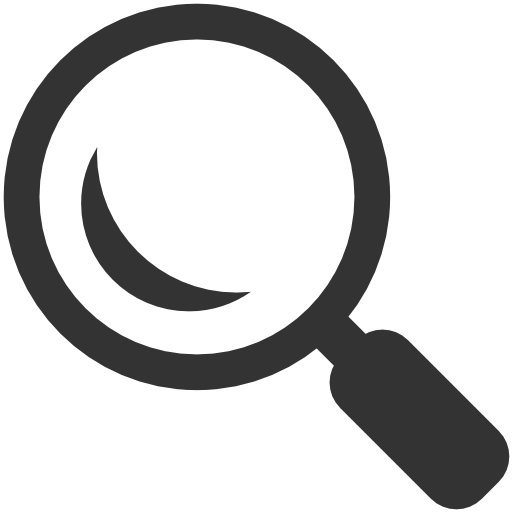
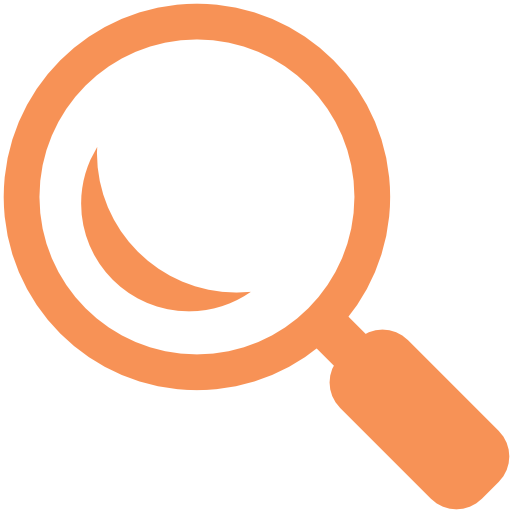
further styling of views, added user search functionality

Changed region(s): [[0.0, 0.0, 1.0, 1.0], [0.1562, 0.2812, 0.5, 0.625]]

diff --git a/app/assets/stylesheets/application.css b/app/assets/stylesheets/application.css
@@ -17,9 +17,12 @@ body {
 }
 #footer {
 	clear: both;
-	height: 100px;
+	height: 75px;
 	width: 0 auto;
-	background-color: #000000;
+	background-color: #454243;
+	color: #f79256;
+	text-align: center;
+	padding-top: 25px;
 }
 #logo {
 	float: left;
@@ -32,18 +35,21 @@ li {
 	text-transform: uppercase;
 	margin: 5px;
 	margin-top: 60px;
+	font-size: 14px;
 }
 #sign_up_form {
 	width: 35%;
 	background-color: #e8e3d9;
 	float: left;
 	padding: 10px;
+	margin-bottom: 20px;
 }
 .form_list {
 	text-align: right;
 }
 #big_dogs {
 	float: right;
+	margin-right: 30px;
 }
 .form {
 	float: inline-block;
@@ -63,5 +69,111 @@ a:link, a:visited {
 	text-decoration: none;
 }
 a:hover {
-	color: #e8e3d9;
+	color: #ffffff;
+}
+.button input {
+	margin: 2px 4px 0px 0px;
+	border: 2px solid #8a8587;
+	background-color: #c2dde5;
+	font-size: 12px;
+}
+#check_out_users {
+	padding-top: 10px;
+}
+#profile_photo {
+	margin: 20px;
+	float: left;
+}
+#my_barks {
+	border: 3px solid #454243;
+	float: right;
+	width: 65%;
+	margin-right: 30px;
+	margin-bottom: 30px;
+	background-color: #e8e3d9;
+	padding: 5px 10px;
+}
+#user_info {
+	width: 30%;
+	border: 2px solid red;
+	float: left;
+}
+#user_name {
+	background-color: #c2dde5;
+	color: #8a8587;
+	padding: 4px 0px;
+}
+#hello {
+	text-transform: none;
+	font-style: italic;
+	margin-right: 10px;
+	font-size: 20px;
+	color: #ffffff;
+}
+#post_body {
+	font-weight: bold;
+	color: #454243;
+}
+#post_date {
+	font-style: italic;
+	font-size: 14px;
+	color: #8a8587;
+}
+.dog_bark {
+	float: left;
+	margin-left: 200px;
+}
+#text_area .input {
+	background-color: #c2dde5;
+	width: 40%;
+}
+#welcome {
+	text-align: center;
+}
+.icon {
+	float: right;
+	margin: 45px 5px 0px 10px;
+	background-color: #8a8587;
+	padding: 4px 4px 0px 4px;
+}
+#ready_to_bark {
+	text-align: center;
+}
+#post_body {
+	width: 500px;
+	height: auto;
+	font-size: 14px;
+}
+#notice {
+	background-color: yellow;
+	position: fixed;
+	left: 40%;
+}
+#alert {
+	background-color: red;
+	position: fixed;
+}
+#dogs_barking {
+	float: left
+	width: 30%;
+	margin: 0px 0px 30px 40px;
+}
+#find_friends {
+	float: left;
+	width: 60%;
+	text-align: center;
+}
+#users_list {
+	background-color: #e8e3d9;
+	width: 30%;
+	font-weight: bold;
+	margin: 20px;
+	text-align: center;
+	float: left;
+}
+#bark_users {
+	background-color: #c2dde5;
+	color: #454243;
+	text-align: center;
+	padding: 4px 0px;
 }

diff --git a/app/controllers/users_controller.rb b/app/controllers/users_controller.rb
@@ -25,4 +25,33 @@ class UsersController < ApplicationController
   end
   def destroy
   end
+  def search
+    full_name = params[:search_name]
+    name_parts = full_name.split(" ")
+    search_results = []
+    name_parts.each do |part|
+      first_name_results = User.where(fname: part.capitalize)
+      first_name_results.each do |result|
+        if !search_results.include?(result)
+          search_results.push(result)
+        end
+      end
+      last_name_results = User.where(lname: part.capitalize)
+      last_name_results.each do |result|
+        if !search_results.include?(result)
+          search_results.push(result)
+        end
+      end
+    end
+
+    if(search_results.length == 0)
+      flash[:notice] = "No results found."
+      redirect_to users_path
+    elsif (search_results.length == 1)
+      redirect_to user_path search_results.first
+    else
+      @users = search_results
+    end
+  end
 end
+

diff --git a/config/routes.rb b/config/routes.rb
@@ -11,5 +11,7 @@ Rails.application.routes.draw do
   get '/profile/edit' => 'users#edit', as: 'edit_profile'
   resources :posts
   root 'users#new'
+
+   post '/search' => 'users#search'
 end
 
